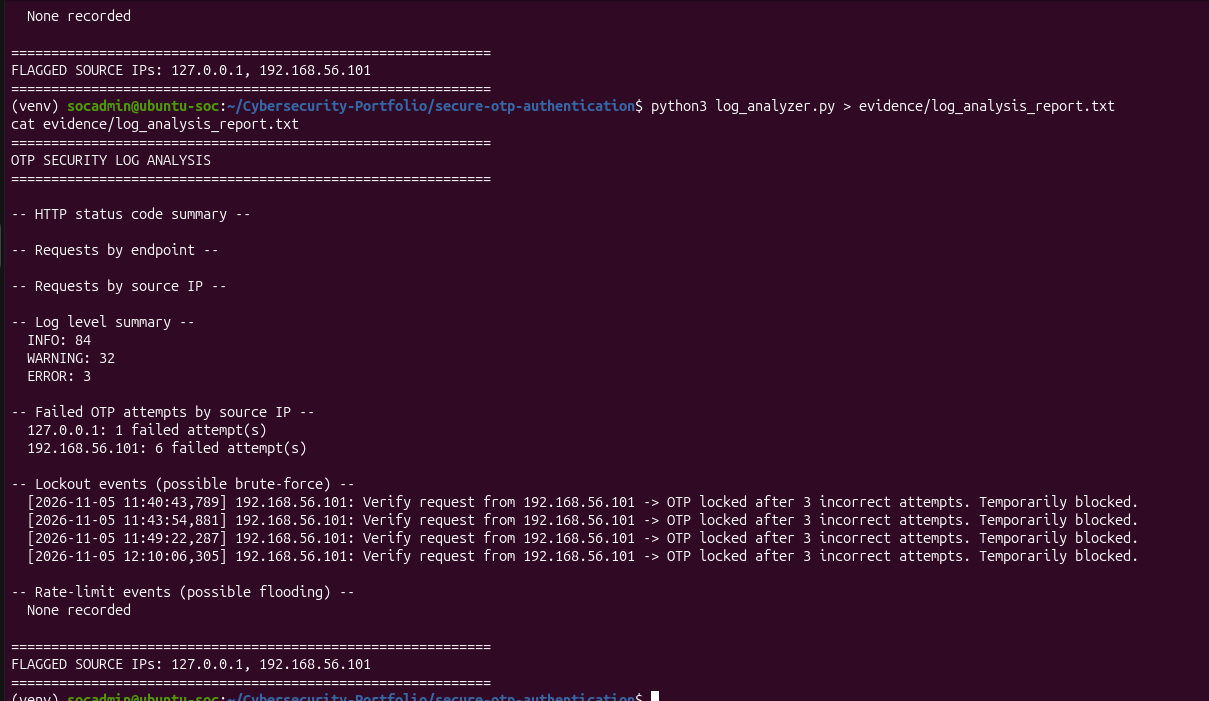
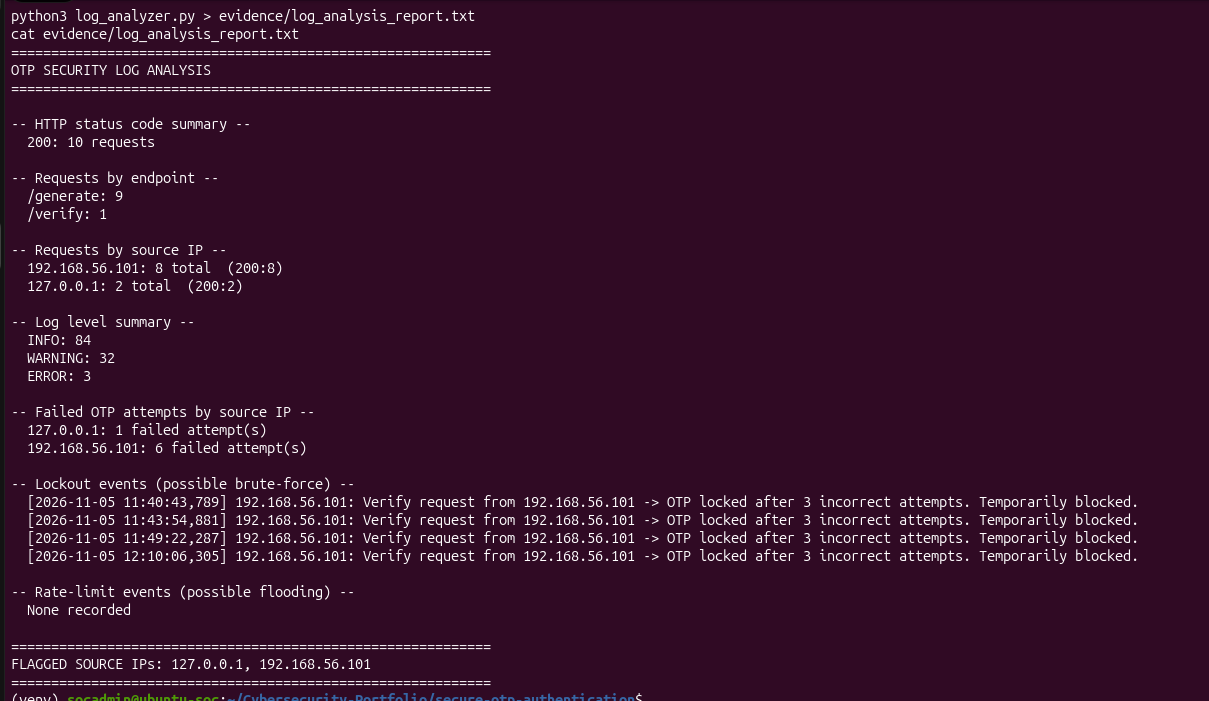
Add Lab 005 log analyzer, report, and evidence

diff --git a/log_analyzer.py b/log_analyzer.py
@@ -8,8 +8,10 @@ APP_LINE = re.compile(
     r"^(?P<ts>\d{4}-\d{2}-\d{2} \d{2}:\d{2}:\d{2},\d{3}) - "
     r"(?P<level>\w+) - (?P<msg>.*)$"
 )
-ACCESS_LINE = re.compile(
-    r'^(?P<ip>\S+) - - \[(?P<ts>[^\]]+)\] '
+# The access-log entry is *inside* an APP_LINE's msg field, since Werkzeug's
+# logger shares our FileHandler/formatter.
+ACCESS_IN_MSG = re.compile(
+    r'^(?P<ip>\S+) - - \[(?P<httpts>[^\]]+)\] '
     r'"(?P<method>\w+) (?P<path>\S+) HTTP/[\d.]+" (?P<status>\d+)'
 )
 IP_IN_MSG = re.compile(r"(\d{1,3}\.\d{1,3}\.\d{1,3}\.\d{1,3})")
@@ -27,43 +29,42 @@ with open(LOG_FILE) as f:
     for line in f:
         line = line.rstrip("\n")
 
-        m = ACCESS_LINE.match(line)
-        if m:
-            ip = m.group("ip")
-            status = m.group("status")
-            path = m.group("path")
+        m = APP_LINE.match(line)
+        if not m:
+            continue
+
+        level = m.group("level")
+        msg = m.group("msg")
+        level_counts[level] += 1
+
+        # Case 1: this line is Werkzeug's access log, nested in msg.
+        am = ACCESS_IN_MSG.match(msg)
+        if am:
+            ip = am.group("ip")
+            status = am.group("status")
+            path = am.group("path")
             status_counts[status] += 1
             path_counts[path] += 1
             ip_requests[ip] += 1
             ip_statuses[ip][status] += 1
             continue
 
-        m = APP_LINE.match(line)
-        if m:
-            level = m.group("level")
-            msg = m.group("msg")
-            level_counts[level] += 1
+        # Case 2: our own application log message.
+        ip_match = IP_IN_MSG.search(msg)
+        if ip_match is None:
+            continue  # generic line with no IP attached
+        ip = ip_match.group(1)
+        msg_l = msg.lower()
 
-            ip_match = IP_IN_MSG.search(msg)
-            if ip_match is None:
-                # Generic module-level line with no IP attached (e.g. from
-                # otp_generator.py itself) — the matching app.py line that
-                # names the source IP covers the same event, so skip here.
-                continue
-            ip = ip_match.group(1)
-            msg_l = msg.lower()
-
-            if "locked after" in msg_l:
-                lockout_events.append((m.group("ts"), ip, msg))
-            if "rate limit exceeded" in msg_l or "generation blocked" in msg_l:
-                ratelimit_events.append((m.group("ts"), ip, msg))
-            if "incorrect otp" in msg_l or ("failed" in msg_l and "attempt" in msg_l):
-                failed_attempts[ip] += 1
+        if "locked after" in msg_l:
+            lockout_events.append((m.group("ts"), ip, msg))
+        if "rate limit exceeded" in msg_l or "generation blocked" in msg_l:
+            ratelimit_events.append((m.group("ts"), ip, msg))
+        if "incorrect otp" in msg_l or ("failed" in msg_l and "attempt" in msg_l):
+            failed_attempts[ip] += 1
 
 
 def dedupe(events):
-    """Collapse events from the same IP with the same message within the
-    same second, which happen when a request triggers two log calls."""
     seen = set()
     out = []
     for ts, ip, msg in events:

diff --git a/README.md b/README.md
@@ -182,3 +182,17 @@ Against the logs generated in Lab 004, it correctly identified `192.168.56.101` 
 ![Log analysis summary](evidence/09-log-analysis.png)
 
 Full output: [`evidence/log_analysis_report.txt`](evidence/log_analysis_report.txt)
+
+## Lab 005: Security Log Analysis
+
+`log_analyzer.py` parses `logs/otp_security.log` — both the application's own security log lines and Flask/Werkzeug's HTTP access log lines, which share the same log file and formatter — to produce a SOC-style triage summary: request counts by status code and endpoint, per-IP request breakdowns, failed-attempt counts, lockout events, and rate-limit events. It then flags any source IP showing attack indicators.
+
+Run it with:
+
+    python3 log_analyzer.py
+
+Against the logs generated in Lab 004, it correctly identified `192.168.56.101` (the Kali VM) as a flagged source IP based on repeated failed OTP attempts, lockout events, and rate-limit violations, matching the brute-force, flooding, and replay attacks actually carried out against it.
+
+![Log analysis summary](evidence/09-log-analysis.png)
+
+Full output: [`evidence/log_analysis_report.txt`](evidence/log_analysis_report.txt)
